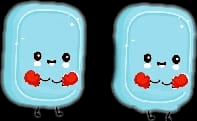
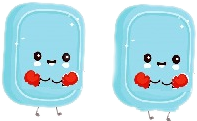
acompañantes ya bien el .png

diff --git a/CombateElVirus/src/Amigo.cpp b/CombateElVirus/src/Amigo.cpp
@@ -13,18 +13,20 @@ void Amigo::Inicializa() {
 }
 void Amigo::Dibuja(float posx, float posy, int dir) {
    
-    posicion.y = posy;
+    posicion.y = -5;//si queremos que salte pues habria que poner posy. Realmente sobra
     glTranslatef(posicion.x, posicion.y, 0);
     switch (dir) {
     case 0:
-        posicion.x = posx - 5;
+        posicion.x = posx - 7;
         companion->draw();
         break;
     case 1:
-        /*while (posx - posicion.x < 4) {
+       /* while (posx - posicion.x < 7) {
             companion->draw();
+            SetVel(0);
+            
         }*/
-        posicion.x = posx - 5;
+        posicion.x = posx - 7;
         companionder->draw();
         break;
     case 2:
@@ -32,7 +34,7 @@ void Amigo::Dibuja(float posx, float posy, int dir) {
     
             companion->draw();
         }*/
-        posicion.x = posx + 4;
+        posicion.x = posx + 7;
         companionizq->draw();
         break;
     }
